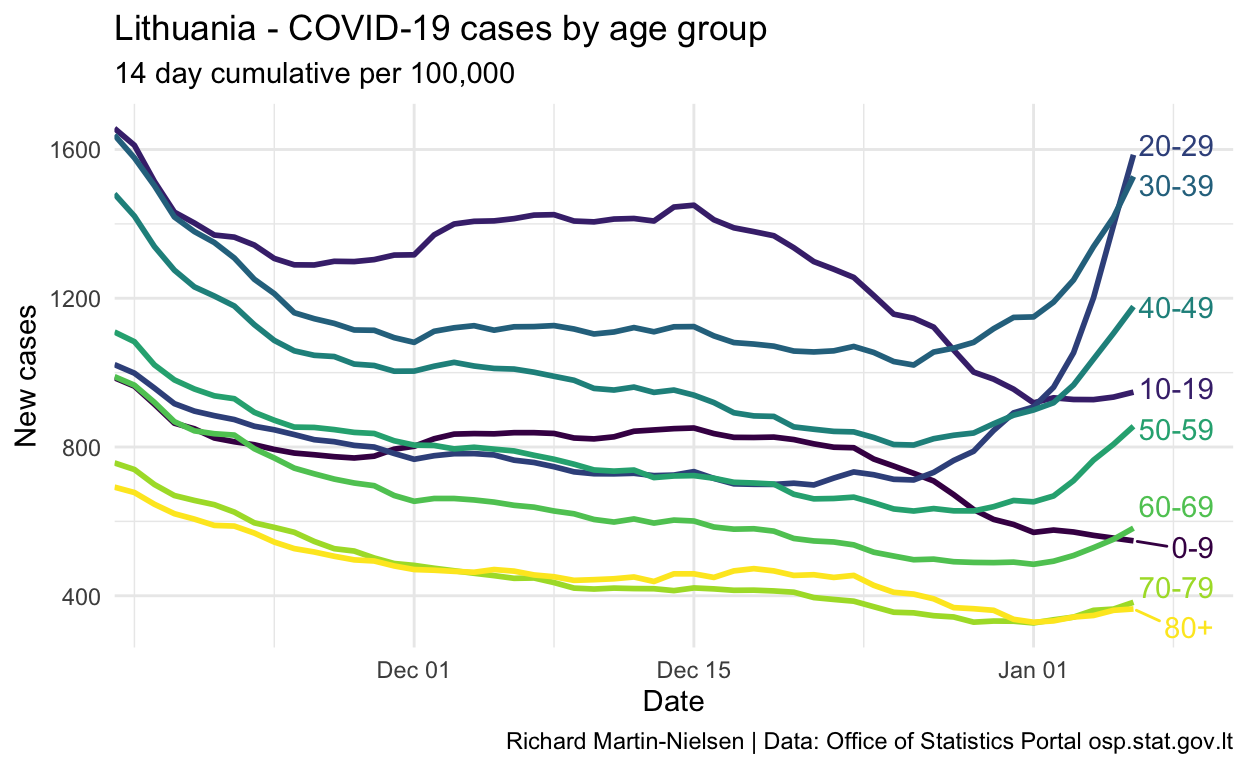
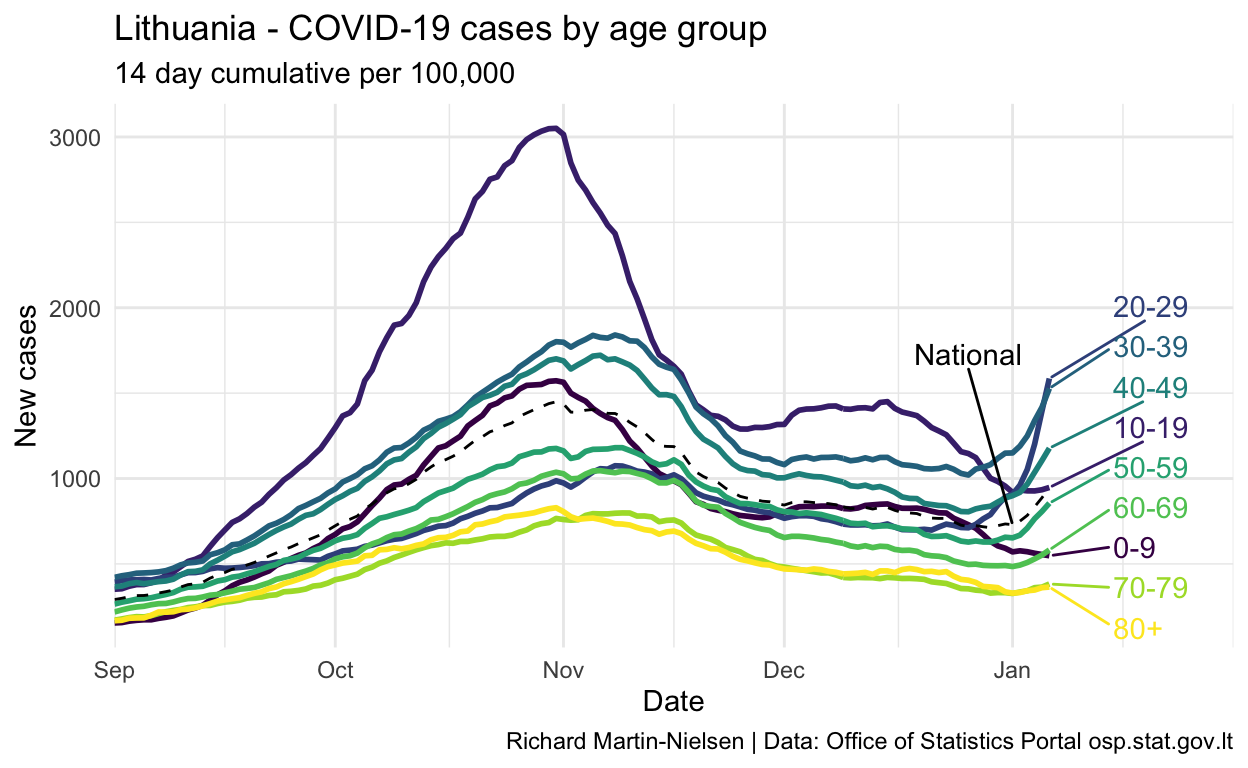
Rerender

diff --git a/docs/age-breakdowns.html b/docs/age-breakdowns.html
@@ -2210,16 +2210,31 @@ Show code
   <span class='fu'><a href='https://dplyr.tidyverse.org/reference/group_by.html'>group_by</a></span><span class='op'>(</span><span class='va'>cohort</span><span class='op'>)</span> <span class='op'><a href='https://magrittr.tidyverse.org/reference/pipe.html'>%&gt;%</a></span>
   <span class='fu'><a href='https://dplyr.tidyverse.org/reference/mutate.html'>mutate</a></span><span class='op'>(</span>pc_cases_14d <span class='op'>=</span> <span class='fu'>zoo</span><span class='fu'>::</span><span class='fu'><a href='https://rdrr.io/pkg/zoo/man/rollmean.html'>rollsum</a></span><span class='op'>(</span><span class='va'>cases_per_100k</span>,k<span class='op'>=</span><span class='fl'>14</span>, fill<span class='op'>=</span><span class='cn'>NA</span>, align<span class='op'>=</span><span class='st'>"right"</span><span class='op'>)</span> <span class='op'>)</span> <span class='op'><a href='https://magrittr.tidyverse.org/reference/pipe.html'>%&gt;%</a></span>
   <span class='fu'><a href='https://dplyr.tidyverse.org/reference/group_by.html'>ungroup</a></span><span class='op'>(</span><span class='op'>)</span> <span class='op'><a href='https://magrittr.tidyverse.org/reference/pipe.html'>%&gt;%</a></span>
-  <span class='fu'><a href='https://dplyr.tidyverse.org/reference/filter.html'>filter</a></span><span class='op'>(</span><span class='va'>date</span> <span class='op'>&gt;</span> <span class='fu'><a href='https://lubridate.tidyverse.org/reference/ymd.html'>ymd</a></span><span class='op'>(</span><span class='st'>"2021-11-15"</span><span class='op'>)</span><span class='op'>)</span>
+  <span class='fu'><a href='https://dplyr.tidyverse.org/reference/filter.html'>filter</a></span><span class='op'>(</span><span class='va'>date</span> <span class='op'>&gt;=</span> <span class='fu'><a href='https://lubridate.tidyverse.org/reference/ymd.html'>ymd</a></span><span class='op'>(</span><span class='st'>"2021-09-01"</span><span class='op'>)</span><span class='op'>)</span>
+
+<span class='va'>ntl_rate_14d</span> <span class='op'>&lt;-</span> <span class='va'>per_capita_rates</span> <span class='op'><a href='https://magrittr.tidyverse.org/reference/pipe.html'>%&gt;%</a></span>
+  <span class='fu'><a href='https://dplyr.tidyverse.org/reference/group_by.html'>group_by</a></span><span class='op'>(</span><span class='va'>date</span><span class='op'>)</span> <span class='op'><a href='https://magrittr.tidyverse.org/reference/pipe.html'>%&gt;%</a></span>
+  <span class='fu'><a href='https://dplyr.tidyverse.org/reference/summarise.html'>summarise</a></span><span class='op'>(</span><span class='fu'><a href='https://dplyr.tidyverse.org/reference/across.html'>across</a></span><span class='op'>(</span><span class='fu'>where</span><span class='op'>(</span><span class='va'>is.numeric</span><span class='op'>)</span>, <span class='op'>~</span> <span class='fu'><a href='https://rdrr.io/r/base/sum.html'>sum</a></span><span class='op'>(</span><span class='va'>.x</span>, na.rm<span class='op'>=</span><span class='cn'>TRUE</span><span class='op'>)</span><span class='op'>)</span><span class='op'>)</span> <span class='op'><a href='https://magrittr.tidyverse.org/reference/pipe.html'>%&gt;%</a></span>
+  <span class='fu'><a href='https://dplyr.tidyverse.org/reference/mutate.html'>mutate</a></span><span class='op'>(</span>cases_per_100k <span class='op'>=</span> <span class='va'>new_cases</span> <span class='op'>/</span> <span class='va'>population</span> <span class='op'>*</span> <span class='fl'>100000</span>,
+         deaths_all_per_mill <span class='op'>=</span> <span class='va'>deaths_all</span> <span class='op'>/</span> <span class='va'>population</span> <span class='op'>*</span> <span class='fl'>1000000</span><span class='op'>)</span> <span class='op'><a href='https://magrittr.tidyverse.org/reference/pipe.html'>%&gt;%</a></span>
+  <span class='fu'><a href='https://dplyr.tidyverse.org/reference/mutate.html'>mutate</a></span><span class='op'>(</span>pc_cases_14d <span class='op'>=</span> <span class='fu'>zoo</span><span class='fu'>::</span><span class='fu'><a href='https://rdrr.io/pkg/zoo/man/rollmean.html'>rollsum</a></span><span class='op'>(</span><span class='va'>cases_per_100k</span>,k<span class='op'>=</span><span class='fl'>14</span>, fill<span class='op'>=</span><span class='cn'>NA</span>, align<span class='op'>=</span><span class='st'>"right"</span><span class='op'>)</span> <span class='op'>)</span> <span class='op'><a href='https://magrittr.tidyverse.org/reference/pipe.html'>%&gt;%</a></span>
+  <span class='fu'><a href='https://dplyr.tidyverse.org/reference/filter.html'>filter</a></span><span class='op'>(</span><span class='va'>date</span> <span class='op'>&gt;=</span> <span class='fu'><a href='https://lubridate.tidyverse.org/reference/ymd.html'>ymd</a></span><span class='op'>(</span><span class='st'>"2021-09-01"</span><span class='op'>)</span><span class='op'>)</span>
 <span class='va'>pc_rate_14d</span> <span class='op'><a href='https://magrittr.tidyverse.org/reference/pipe.html'>%&gt;%</a></span>
   <span class='fu'><a href='https://ggplot2.tidyverse.org/reference/ggplot.html'>ggplot</a></span><span class='op'>(</span><span class='fu'><a href='https://ggplot2.tidyverse.org/reference/aes.html'>aes</a></span><span class='op'>(</span>x <span class='op'>=</span> <span class='va'>date</span>, y<span class='op'>=</span><span class='va'>pc_cases_14d</span>, colour<span class='op'>=</span><span class='va'>cohort</span><span class='op'>)</span><span class='op'>)</span> <span class='op'>+</span>
   <span class='fu'><a href='https://ggplot2.tidyverse.org/reference/ggtheme.html'>theme_minimal</a></span><span class='op'>(</span><span class='op'>)</span> <span class='op'>+</span>
   <span class='fu'><a href='https://ggplot2.tidyverse.org/reference/theme.html'>theme</a></span><span class='op'>(</span> legend.position <span class='op'>=</span> <span class='st'>"none"</span><span class='op'>)</span> <span class='op'>+</span>
   <span class='fu'><a href='https://ggplot2.tidyverse.org/reference/geom_path.html'>geom_line</a></span><span class='op'>(</span>size<span class='op'>=</span><span class='fl'>1</span><span class='op'>)</span> <span class='op'>+</span>
+  <span class='fu'><a href='https://ggplot2.tidyverse.org/reference/geom_path.html'>geom_line</a></span><span class='op'>(</span>data <span class='op'>=</span> <span class='va'>ntl_rate_14d</span>, <span class='fu'><a href='https://ggplot2.tidyverse.org/reference/aes.html'>aes</a></span><span class='op'>(</span>x<span class='op'>=</span><span class='va'>date</span>, y<span class='op'>=</span><span class='va'>pc_cases_14d</span><span class='op'>)</span>,
+            linetype <span class='op'>=</span> <span class='fl'>2</span>, colour<span class='op'>=</span><span class='st'>"black"</span><span class='op'>)</span> <span class='op'>+</span>
   <span class='fu'><a href='https://rdrr.io/pkg/ggrepel/man/geom_text_repel.html'>geom_text_repel</a></span><span class='op'>(</span><span class='fu'><a href='https://ggplot2.tidyverse.org/reference/aes.html'>aes</a></span><span class='op'>(</span>x<span class='op'>=</span><span class='va'>date</span>,y<span class='op'>=</span><span class='va'>pc_cases_14d</span>,label<span class='op'>=</span><span class='va'>cohort</span>,colour<span class='op'>=</span><span class='va'>cohort</span><span class='op'>)</span>,
                   nudge_x<span class='op'>=</span><span class='fl'>10</span>,
                   direction<span class='op'>=</span><span class='st'>"y"</span>,hjust<span class='op'>=</span><span class='st'>"left"</span>,
                   data<span class='op'>=</span><span class='fu'><a href='https://rdrr.io/r/utils/head.html'>tail</a></span><span class='op'>(</span><span class='va'>pc_rate_14d</span>, <span class='fl'>9</span><span class='op'>)</span><span class='op'>)</span> <span class='op'>+</span>
+  <span class='fu'><a href='https://rdrr.io/pkg/ggrepel/man/geom_text_repel.html'>geom_text_repel</a></span><span class='op'>(</span><span class='fu'><a href='https://ggplot2.tidyverse.org/reference/aes.html'>aes</a></span><span class='op'>(</span>x<span class='op'>=</span><span class='va'>date</span>,y<span class='op'>=</span><span class='va'>pc_cases_14d</span>,label<span class='op'>=</span><span class='st'>"National"</span><span class='op'>)</span>,
+                  colour<span class='op'>=</span><span class='st'>"black"</span>,
+                  nudge_y<span class='op'>=</span><span class='fl'>1000</span>,
+                  hjust<span class='op'>=</span><span class='st'>"right"</span>,
+                  data<span class='op'>=</span><span class='va'>ntl_rate_14d</span> <span class='op'><a href='https://magrittr.tidyverse.org/reference/pipe.html'>%&gt;%</a></span> <span class='fu'><a href='https://dplyr.tidyverse.org/reference/filter.html'>filter</a></span><span class='op'>(</span><span class='va'>date</span> <span class='op'>==</span> <span class='st'>"2022-01-01"</span><span class='op'>)</span><span class='op'>)</span> <span class='op'>+</span>
   <span class='co'>#scale_fill_brewer(palette = "Set2") +</span>
   <span class='fu'><a href='https://ggplot2.tidyverse.org/reference/scale_viridis.html'>scale_colour_viridis_d</a></span><span class='op'>(</span>name <span class='op'>=</span> <span class='st'>"Age cohort"</span><span class='op'>)</span> <span class='op'>+</span>
   <span class='fu'><a href='https://ggplot2.tidyverse.org/reference/scale_continuous.html'>scale_y_continuous</a></span><span class='op'>(</span><span class='op'>)</span> <span class='op'>+</span>
@@ -2228,7 +2243,7 @@ Show code
        y<span class='op'>=</span><span class='st'>"New cases"</span>,
        x<span class='op'>=</span><span class='st'>"Date"</span>,
        caption<span class='op'>=</span><span class='st'>"Richard Martin-Nielsen | Data: Office of Statistics Portal osp.stat.gov.lt"</span><span class='op'>)</span> <span class='op'>+</span>
-  <span class='fu'><a href='https://ggplot2.tidyverse.org/reference/scale_date.html'>scale_x_date</a></span><span class='op'>(</span>expand <span class='op'>=</span> <span class='fu'><a href='https://ggplot2.tidyverse.org/reference/expansion.html'>expansion</a></span><span class='op'>(</span>add<span class='op'>=</span><span class='fu'><a href='https://rdrr.io/r/base/c.html'>c</a></span><span class='op'>(</span><span class='fl'>0</span>,<span class='fl'>5</span><span class='op'>)</span><span class='op'>)</span><span class='op'>)</span>
+  <span class='fu'><a href='https://ggplot2.tidyverse.org/reference/scale_date.html'>scale_x_date</a></span><span class='op'>(</span>expand <span class='op'>=</span> <span class='fu'><a href='https://ggplot2.tidyverse.org/reference/expansion.html'>expansion</a></span><span class='op'>(</span>add<span class='op'>=</span><span class='fu'><a href='https://rdrr.io/r/base/c.html'>c</a></span><span class='op'>(</span><span class='fl'>0</span>,<span class='fl'>25</span><span class='op'>)</span><span class='op'>)</span><span class='op'>)</span>
 </code></pre>
 </div>
 </details>
